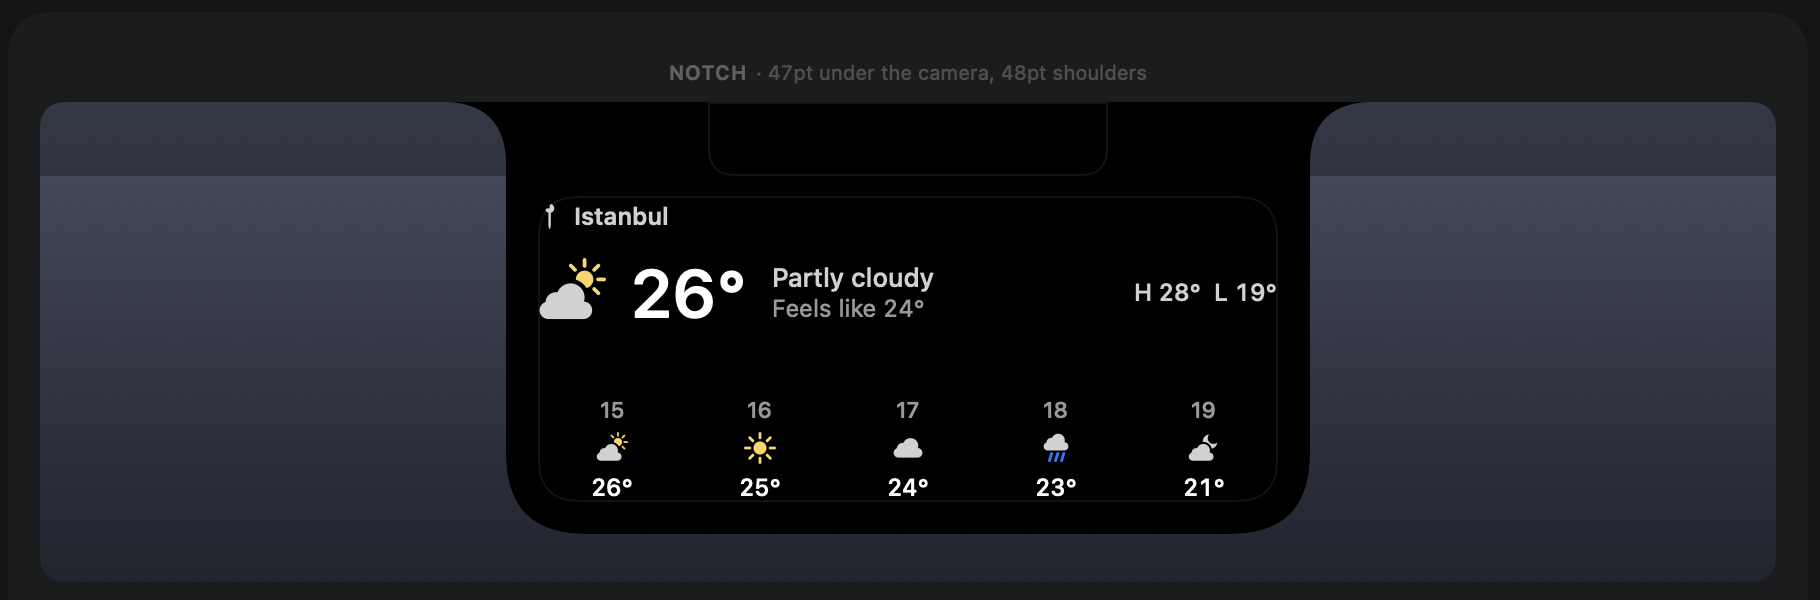
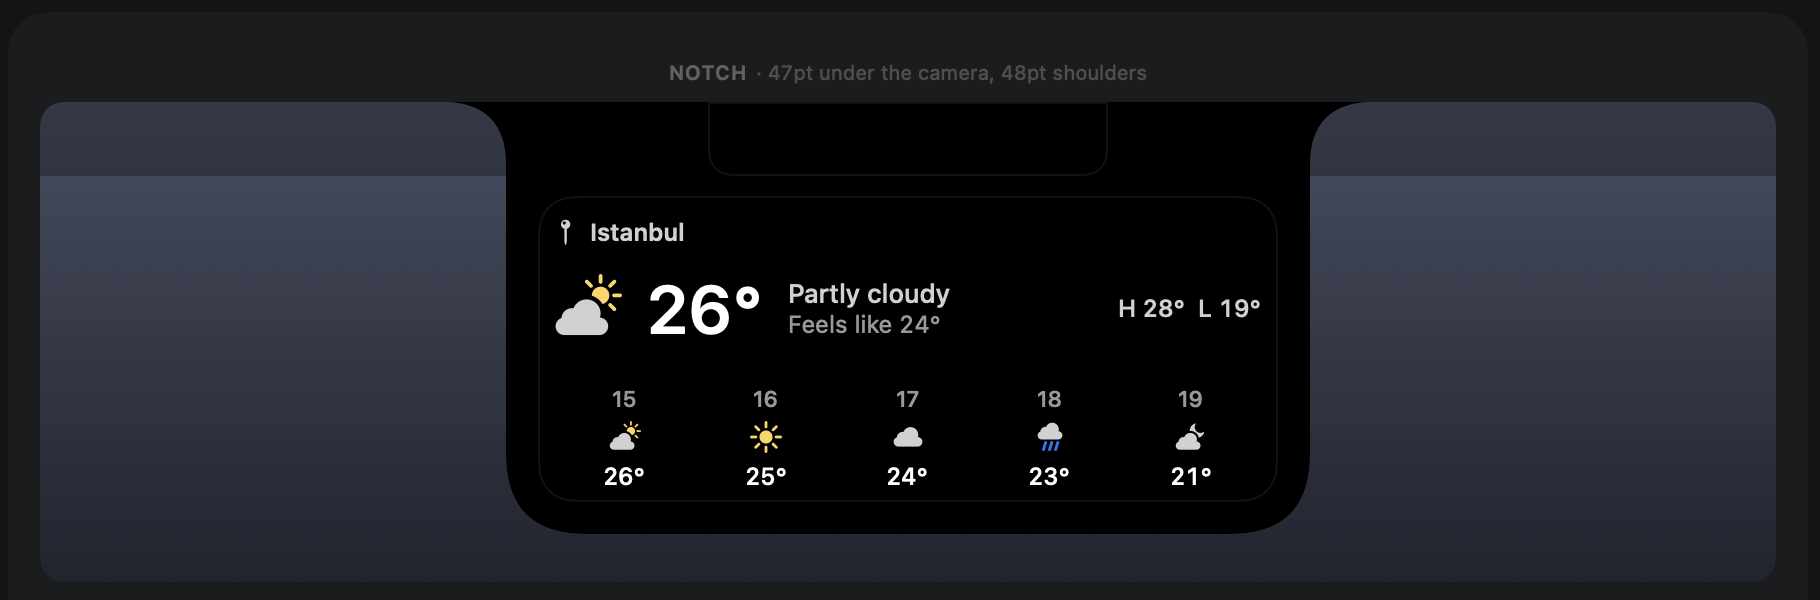
Answer Jordy's review, as 1.0.2
The paired rows stand on the floor again, now that DroppyKit 1.20.1's
contentInsets clears the corner clip under a notch, and the solo hours
are let down by the empty descent under their figures; GapTests checks
the ink stands as far from the floor as from the walls. The city field
is the system's NSSearchField, the wing dims a stale reading like the
shelf, and CHANGELOG.md is one entry for the person installing it.

The Store's copy leaves out docs/, scripts/ and the Makefile, and the
README points at this repository for them.

diff --git a/Tests/OriWeatherTests/GapTests.swift b/Tests/OriWeatherTests/GapTests.swift
@@ -1,0 +1,51 @@
+import AppKit
+import DroppyKit
+import SwiftUI
+import XCTest
+@testable import OriWeather
+
+/// The widget's ink stands as far from the floor as from the walls, alone and
+/// beside another widget, measured on the rendered pixels the way the Store's
+/// review measures it. The host's inset is the one under a notch.
+@MainActor
+final class GapTests: XCTestCase {
+    func testTheLastRowStandsAsFarFromTheFloorAsFromTheWalls() async throws {
+        let droplet = OriWeatherDroplet(fetcher: DemoWeather(mode: .fixed))
+        try droplet.activate(host: TestHost().host)
+        await settle()
+        for paired in [false, true] {
+            let size = CGSize(width: paired ? Look.shelfPairedWidth : Look.shelfSoloWidth, height: Look.shelfHeight)
+            let context = ShelfWidgetContext(
+                availableSize: size, isPaired: paired, placement: paired ? .leading : .solo, isCompact: paired,
+                isShelfTransitioning: false, isPreview: true, surface: .builtInNotch,
+                usesIslandCurvature: false, usesAdaptiveForegrounds: false)
+            let gaps = try ink(WeatherWidget(droplet: droplet, context: context)
+                .frame(width: size.width, height: size.height).background(Color.black))
+            let walls = (gaps.left + gaps.right) / 2
+            XCTAssertEqual(gaps.bottom, walls, accuracy: 1, "paired: \(paired), gaps: \(gaps)")
+        }
+        droplet.deactivate()
+    }
+
+    /// The gaps, in points, between the edges and anything lit.
+    private func ink(_ view: some View) throws -> (left: Double, right: Double, top: Double, bottom: Double) {
+        let renderer = ImageRenderer(content: view)
+        renderer.scale = 2
+        let image = try XCTUnwrap(renderer.cgImage)
+        let w = image.width, h = image.height
+        var data = [UInt8](repeating: 0, count: w * h * 4)
+        let context = try XCTUnwrap(CGContext(
+            data: &data, width: w, height: h, bitsPerComponent: 8, bytesPerRow: w * 4,
+            space: CGColorSpace(name: CGColorSpace.sRGB)!, bitmapInfo: CGImageAlphaInfo.premultipliedLast.rawValue))
+        context.draw(image, in: CGRect(x: 0, y: 0, width: w, height: h))
+        var minX = w, maxX = 0, minY = h, maxY = 0
+        for y in 0 ..< h {
+            for x in 0 ..< w where Int(data[(y * w + x) * 4]) + Int(data[(y * w + x) * 4 + 1])
+                + Int(data[(y * w + x) * 4 + 2]) > 90 {
+                minX = min(minX, x); maxX = max(maxX, x); minY = min(minY, y); maxY = max(maxY, y)
+            }
+        }
+        // The bitmap's first row is the top of the image.
+        return (Double(minX) / 2, Double(w - 1 - maxX) / 2, Double(minY) / 2, Double(h - 1 - maxY) / 2)
+    }
+}

diff --git a/Sources/OriWeather/Shelf.swift b/Sources/OriWeather/Shelf.swift
@@ -131,7 +131,11 @@ private struct SoloWeather: View {
             if !glance.hours.isEmpty {
                 // Down to the bottom edge, with no gap of its own: what the
                 // height leaves over the composition sits above the hours.
+                // The degrees are figures with nothing under their baseline,
+                // so the strip is let down by the line's descent to stand as
+                // far from the floor as the content stands from the walls.
                 HourStrip(hours: glance.hours)
+                    .offset(y: Look.lastLineDescent)
                     .frame(maxHeight: .infinity, alignment: .bottom)
             }
         }
@@ -169,9 +173,10 @@ private struct HourStrip: View {
 
 /// Beside another widget: the header, the mark and the degrees, the
 /// condition, and two rows with the label leading and the number trailing:
-/// what it feels like, and today's high and low. The rows follow the
-/// condition rather than sitting on the bottom edge, where the host's corner
-/// clip would cut their first and last letters.
+/// what it feels like, and today's high and low. The rows stand on the
+/// floor, as far from it as the content sits from the walls: the host's inset
+/// keeps them clear of the corner clip, and the height the solo layout needs
+/// is left over between the condition and the rows.
 private struct PairedWeather: View {
     let glance: Glance
     @Environment(\.weatherInk) private var ink
@@ -192,6 +197,7 @@ private struct PairedWeather: View {
             Text(verbatim: glance.detail)
                 .font(.system(size: DroppyLiveActivityMetrics.labelFontSize, weight: .medium))
                 .foregroundStyle(ink.secondary)
+            Spacer(minLength: 0)
             row("Feels like", glance.feelsLike)
             if let high = glance.high, let low = glance.low {
                 row("High / low", "\(high) / \(low)")

diff --git a/Sources/OriWeather/CitySearchField.swift b/Sources/OriWeather/CitySearchField.swift
@@ -1,0 +1,45 @@
+import AppKit
+import SwiftUI
+
+/// The system search field, the one Droppy's own settings search with: the
+/// magnifier, the prompt and the clear button. DroppyKit has none yet, so
+/// the droplet wraps `NSSearchField` itself.
+struct CitySearchField: NSViewRepresentable {
+    @Binding var text: String
+    let prompt: String
+
+    func makeNSView(context: Context) -> NSSearchField {
+        let field = NSSearchField()
+        field.placeholderString = prompt
+        field.stringValue = text
+        field.sendsSearchStringImmediately = true
+        field.delegate = context.coordinator
+        // The clear button changes the text without a keystroke, and reaches
+        // the binding only through the action.
+        field.target = context.coordinator
+        field.action = #selector(Coordinator.searched(_:))
+        return field
+    }
+
+    func updateNSView(_ field: NSSearchField, context: Context) {
+        context.coordinator.text = $text
+        if field.stringValue != text { field.stringValue = text }
+    }
+
+    func makeCoordinator() -> Coordinator { Coordinator(text: $text) }
+
+    final class Coordinator: NSObject, NSSearchFieldDelegate {
+        var text: Binding<String>
+
+        init(text: Binding<String>) { self.text = text }
+
+        func controlTextDidChange(_ notification: Notification) {
+            guard let field = notification.object as? NSSearchField else { return }
+            text.wrappedValue = field.stringValue
+        }
+
+        @objc func searched(_ field: NSSearchField) {
+            if text.wrappedValue != field.stringValue { text.wrappedValue = field.stringValue }
+        }
+    }
+}

diff --git a/Sources/OriWeather/Wing.swift b/Sources/OriWeather/Wing.swift
@@ -47,7 +47,8 @@ extension OriWeatherDroplet: LiveActivityProviding {
     }
 }
 
-/// The mark at the wing's glyph size.
+/// The mark at the wing's glyph size, dimmed with the figure beside it once
+/// the reading has stopped arriving.
 struct WingMark: View {
     @ObservedObject var droplet: OriWeatherDroplet
 
@@ -56,6 +57,7 @@ struct WingMark: View {
             WeatherMark(code: glance.reading.code, isDay: glance.reading.isDay)
                 .frame(width: DroppyLiveActivityMetrics.iconSize,
                        height: DroppyLiveActivityMetrics.iconSize)
+                .opacity(glance.isStale ? Look.staleOpacity : 1)
                 .accessibilityHidden(true)
         }
     }
@@ -63,18 +65,21 @@ struct WingMark: View {
 
 /// The degrees at the wing's label size, in plain SF,
 /// with monospaced digits so the wing does not jitter when the figure moves.
+/// An old reading is dimmed, as it is on the shelf: a two hour old number at
+/// full brightness reads as the temperature now.
 struct WingDegrees: View {
     @ObservedObject var droplet: OriWeatherDroplet
 
     var body: some View {
         if let glance = droplet.glance {
-            WingFigure(text: glance.degrees)
+            WingFigure(text: glance.degrees, isStale: glance.isStale)
         }
     }
 }
 
 struct WingFigure: View {
     let text: String
+    var isStale = false
 
     var body: some View {
         Text(verbatim: text)
@@ -83,6 +88,7 @@ struct WingFigure: View {
             .foregroundStyle(AdaptiveColors.notchSurfacePrimaryText)
             .lineLimit(1)
             .fixedSize()
+            .opacity(isStale ? Look.staleOpacity : 1)
     }
 }
 

diff --git a/Sources/OriWeather/Room.swift b/Sources/OriWeather/Room.swift
@@ -75,9 +75,9 @@ struct WeatherRoom: View {
     }
 }
 
-/// The city row, and the matches under it. The SDK has no text-field row, so
-/// the field is the system's own in a stacked row: the guides keep text fields
-/// native, with their border and focus ring. Each match is a row of its own,
+/// The city row, and the matches under it. The SDK has no search row, so the
+/// field is the system's search field in a stacked row, the one Droppy's own
+/// settings search with. Each match is a row of its own,
 /// which is how the Form lays out content under a row.
 private struct CityCard: View {
     @ObservedObject var droplet: OriWeatherDroplet
@@ -95,11 +95,7 @@ private struct CityCard: View {
                 infoTip: "The weather is read for a city you name, not for where this Mac is. Open-Meteo is sent the name while you type and a coordinate rounded to about a kilometre."
             ) {
                 VStack(alignment: .leading, spacing: DroppySpacing.xs) {
-                    // Labelled by the row's title, which a Form would
-                    // otherwise print beside the field; the prompt goes inside.
-                    TextField("City", text: $search.query, prompt: Text(verbatim: "Search for a city"))
-                        .labelsHidden()
-                        .textFieldStyle(.roundedBorder)
+                    CitySearchField(text: $search.query, prompt: "Search for a city")
                     Text(verbatim: caption)
                         .font(.caption)
                         .foregroundStyle(AdaptiveColors.secondaryTextAuto)

diff --git a/Sources/OriWeather/Look.swift b/Sources/OriWeather/Look.swift
@@ -1,3 +1,5 @@
+import AppKit
+import DroppyKit
 import SwiftUI
 
 /// Every number and colour of this droplet's own, in one place.
@@ -34,10 +36,13 @@ enum Look {
     static let shelfSoloWidth: CGFloat = 370
     static let shelfPairedWidth: CGFloat = 170
     /// The widget's height: the header, the reading and the hours ahead, 129
-    /// points, inside the host's `contentInsets` for a solo card on an
-    /// island, 12 on every edge. Under a notch the host insets nothing, and
-    /// what that leaves sits above the hours.
+    /// points, inside the host's `contentInsets`, 8 on every edge under a
+    /// notch since DroppyKit 1.20.1. What that leaves sits above the hours.
     static let shelfHeight: CGFloat = 153
+    /// How far a line of the label font runs under its baseline, which a row
+    /// of figures leaves empty.
+    static let lastLineDescent = -NSFont.systemFont(ofSize: DroppyLiveActivityMetrics.labelFontSize,
+                                                    weight: .medium).descender
     /// The header row, as tall as one with a control at its end, like the
     /// SDK's example. Under a notch the host pads nothing and clips the
     /// widget at an 18 pt corner, and a shorter row puts the symbol in the

diff --git a/Tests/OriWeatherTests/IslandTests.swift b/Tests/OriWeatherTests/IslandTests.swift
@@ -4,12 +4,10 @@ import SwiftUI
 import XCTest
 @testable import OriWeather
 
-/// The harness hands both of its shelf stages the session's own curvature, so
-/// its island never gets the 12 pt a solo card there is inset on every edge,
-/// and the island's corner cuts into a widget the host would have inset. This
-/// draws that card the way the host does, at the declared size, and checks
-/// the solo composition fits inside the inset. The picture lands in
-/// `shots/extra/`.
+/// A solo card on an island, drawn the way the host draws it: the island's
+/// curvature, the host's inset for it (none since DroppyKit 1.20.1, the shell
+/// being the clip) and the declared size. The solo composition has to fit. The
+/// picture lands in `shots/extra/`.
 @MainActor
 final class IslandTests: XCTestCase {
     func testTheSoloWidgetFitsInsideTheIslandsInset() async throws {

diff --git a/docs/notes.md b/docs/notes.md
@@ -499,3 +499,30 @@ The branch's conflict with Store main was `CODEOWNERS`, which main regenerated
 after openclip became dropclip and tinycast left. Main's `validate.py` also
 refuses a pane that repeats the droplet's name or icon, which this one never
 did.
+
+## Jordy's review of !35, and 1.0.2 (2026-09-30)
+
+The SDK went to 1.20.1, which changed what `contentInsets` is: 8 points on
+every edge under a notch, enough to clear the 18 point corner the host clips a
+widget to, and nothing for a solo card on an island, whose shell is the clip.
+With the inset clearing the corner, the paired rows go back to the floor,
+where Jordy asked for them: measured in the harness they stood 42 points above
+it against 25 from the walls. Measured on the rendered pixels (`GapTests`,
+under a notch), the paired rows now stand 8.5 points off the floor and the
+walls 8.5 and 8.5; the solo hours stood 10.5 against 8.5 and 9, because their
+degrees are figures and the line's descent under the baseline is empty, so the
+strip is let down by that descent and stands 8. A bitmap context's first row
+is the top of the image, which the first measurement got backwards.
+
+The harness now builds on the swiftbuild engine and codesigns a resource
+bundle, and failed on iCloud's Finder info the way the tests had. `.build`
+carries `com.apple.fileprovider.ignore#P` now, so iCloud Drive leaves it
+alone, and the harness and a plain `swift test` both pass.
+
+The city field is an `NSSearchField`, the magnifier, the prompt and the clear
+button of Droppy's own settings; DroppyKit has no search row. The wing dims
+an old reading as the shelf does, the mark and the figure alike. The Store's
+copy leaves out `docs/`, `scripts/` and the `Makefile`, and the README points
+here for them. The changelog is one entry, written for the person installing
+it, and the version is 1.0.2, since Meric wanted the round after review to be
+one.

diff --git a/README.md b/README.md
@@ -69,17 +69,19 @@ is only fetched again if it is older than the interval.
 
 ## Building it
 
+With the [DroppyKit](https://gitlab.com/droppyformac1/droppykit) checkout on
+the PATH:
+
 ```bash
-make test      # unit tests, the bundle, the Store's checks, the harness's verdict
-make install   # into Droppy Playground
-make energy    # what it costs the Playground, against the Playground without it
+droppykit build      # the bundle, universal
+droppykit run        # the harness, every surface at Droppy's own metrics
+swift test           # the unit tests
 ```
 
-`make test` needs the [DroppyKit](https://gitlab.com/droppyformac1/droppykit)
-checkout: `droppykit` on the PATH, or the repository cloned beside this one,
-or `make SDK=/path/to/droppykit test`.
-`OW_DEMO=1 make install` puts a fixed sky in the Playground without asking the
-network anything; `OW_DEMO=stale` shows what an aeroplane looks like.
+The development tooling, `make test` (the gate), the energy check against
+Droppy Playground, the icon script and the notes on what the machine taught
+along the way, lives in [github.com/realmeric/OriWeather](https://github.com/realmeric/OriWeather).
+The Store's copy of the droplet carries only the package.
 
 The limit worth knowing: the harness draws every surface at Droppy's own
 metrics, but it does not decide who gets the notch. What the droplet does when

diff --git a/CHANGELOG.md b/CHANGELOG.md
@@ -1,12 +1,8 @@
 # Changelog
 
-## [1.0.1] - 2026-09-23
+## [1.0.2] - 2026-09-30
 
-- First release in the Store: the temperature and its own mark on the wings when nothing else wants the notch, the weather on the shelf with today's high and low and the next five hours, and a row in the lock screen's status widgets.
-- It asks for no location permission. The city comes from your internet address, checked against your time zone, or from the one you name in its settings.
-- Its settings are Droppy's own grouped page: the pickers are the system's pop-up buttons and the switches its switches.
-- On the shelf it sits exactly where Droppy's own widgets do, under the notch and on the island.
-
-## [1.0.0] - 2026-09-11
-
-- Sent through the Store's old submission form and never published.
+- The temperature and its own mark on the notch's wings whenever nothing else wants them, and the weather on the shelf: what it feels like, today's high and low and the next five hours.
+- While your Mac is locked, it sits in the lock screen's status widgets row.
+- No location permission and no account. It finds your city from your internet address, checked against your time zone, or uses the one you name in its settings.
+- When the network drops, the last reading stays up, dimmed, with how old it is.

diff --git a/AGENTS.md b/AGENTS.md
@@ -216,4 +216,6 @@ The Store's copy is `droplets/ori-weather` in gitlab.com/droppyformac1/droplets.
 `droppykit submit` copies this folder as it is on disk, and it holds files
 that stay on this Mac (`KANBAN.md`, `docs/look.md`), so run it from an export
 of the commit: `git archive HEAD | tar -x -C <empty folder>`, then
-`droppykit submit` in that folder.
+`droppykit submit` in that folder. The Store folder holds the package and
+nothing else, as its CONTRIBUTING.md lists: `docs/`, `scripts/` and the
+`Makefile` stay in this repository and are left out of the Store's copy.
